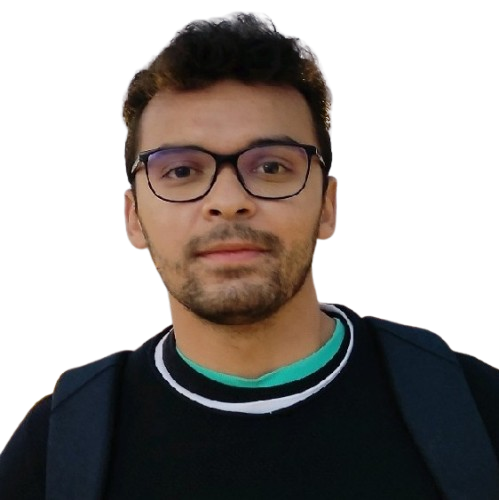
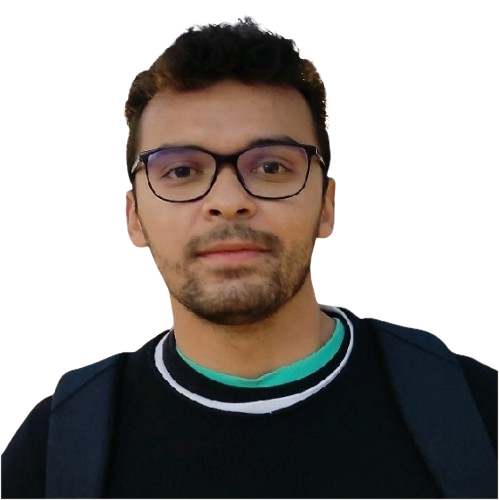
Update fotos

diff --git a/index.html b/index.html
@@ -440,7 +440,7 @@
             <div class="col-sm-6 col-lg-3">
                 <div class="card-wrap">
                     <div class="image-wrap">
-                        <img src="assets/images/Flavio-562x563.png" alt="">
+                        <img src="assets/images/Flavio-499x500.png" alt="">
                     </div>
                     <div class="content-wrap">
                         <h5 class="mbr-section-title card-title mbr-fonts-style align-center m-0 display-7"><strong>Flávio Arthur Oliveira Santos</strong></h5>
@@ -568,7 +568,7 @@
             <div class="col-sm-6 col-lg-3">
                 <div class="card-wrap">
                     <div class="image-wrap">
-                        <img src="assets/images/Adiel-925x1008.jpg" alt="">
+                        <img src="assets/images/Adiel-925x967.jpg" alt="">
                     </div>
                     <div class="content-wrap">
                         <h5 class="mbr-section-title card-title mbr-fonts-style align-center m-0 display-7"><strong>Adiel T. de Almeida Filho</strong></h5>
